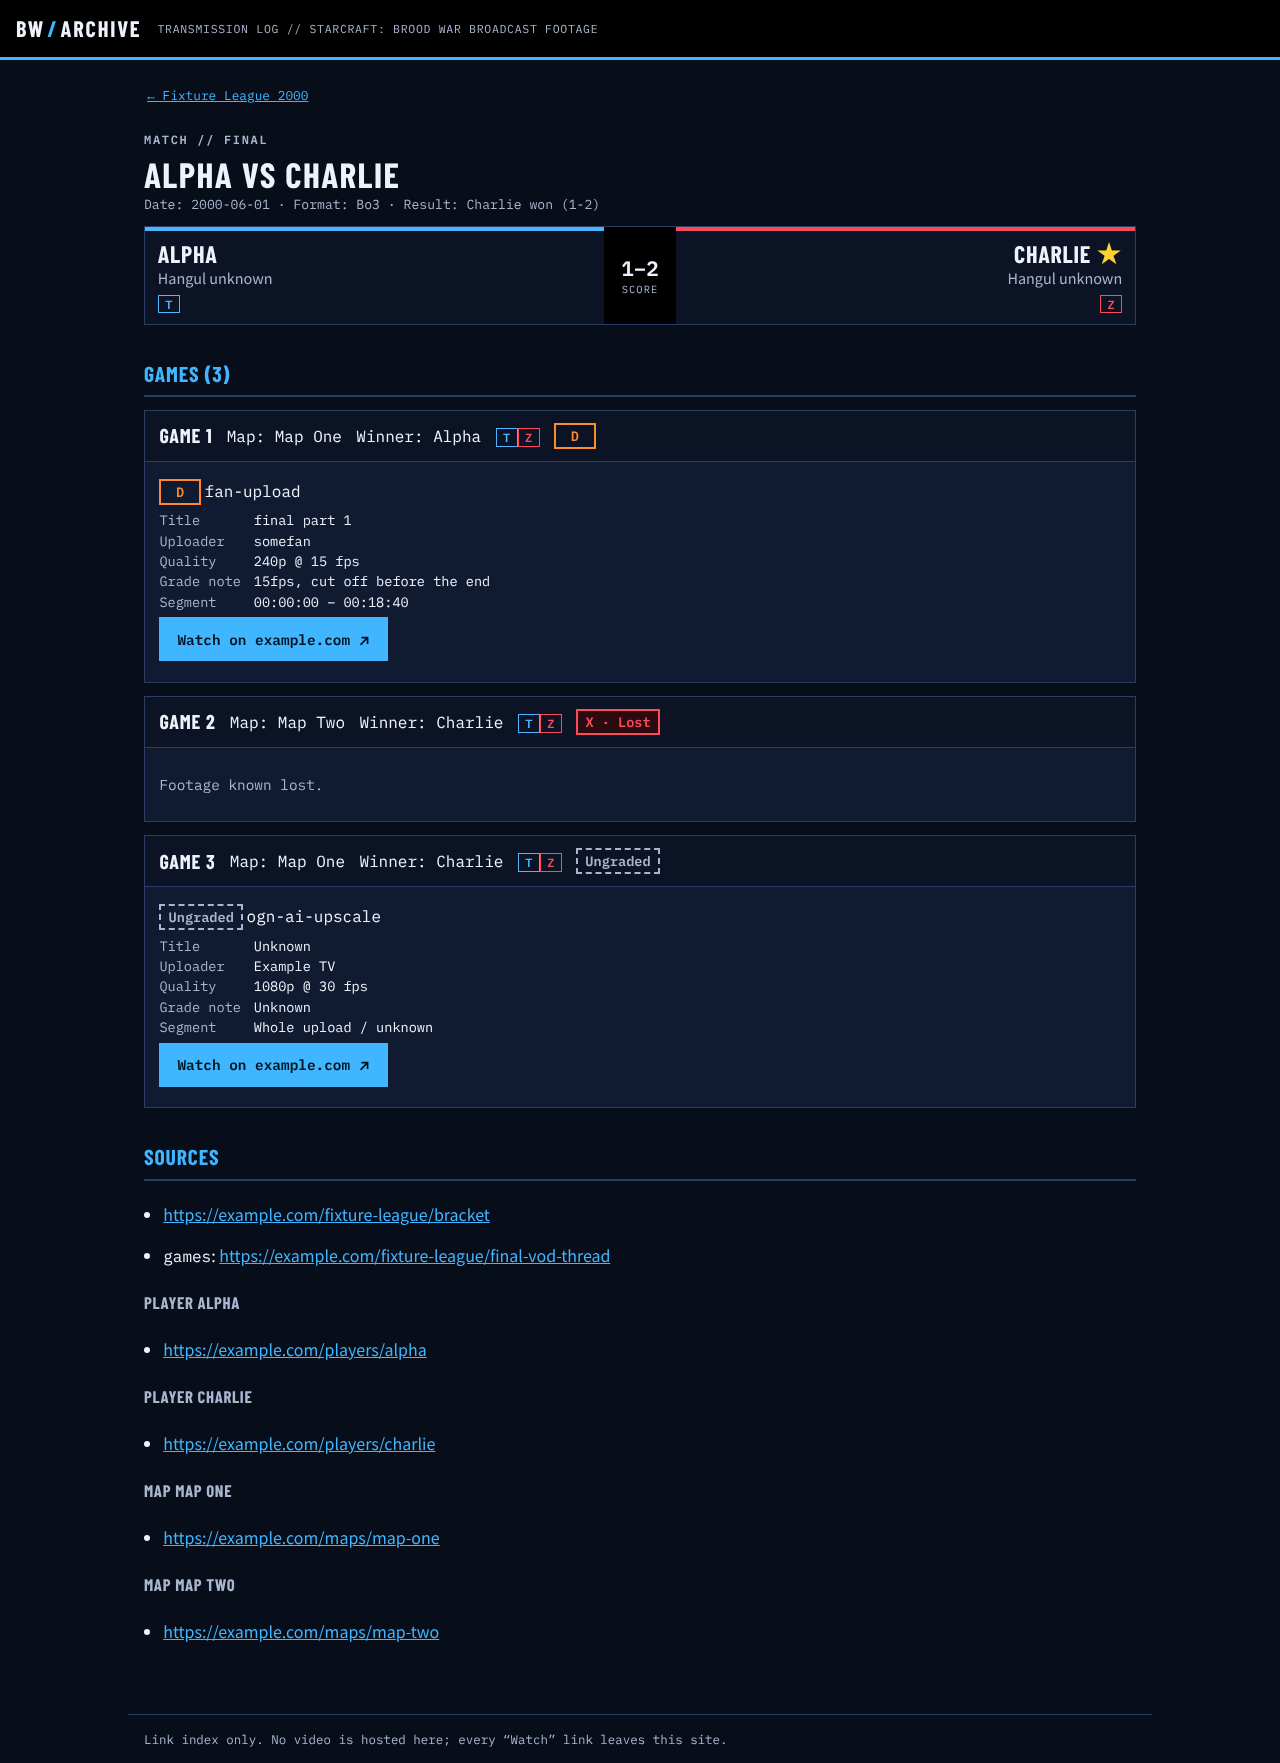
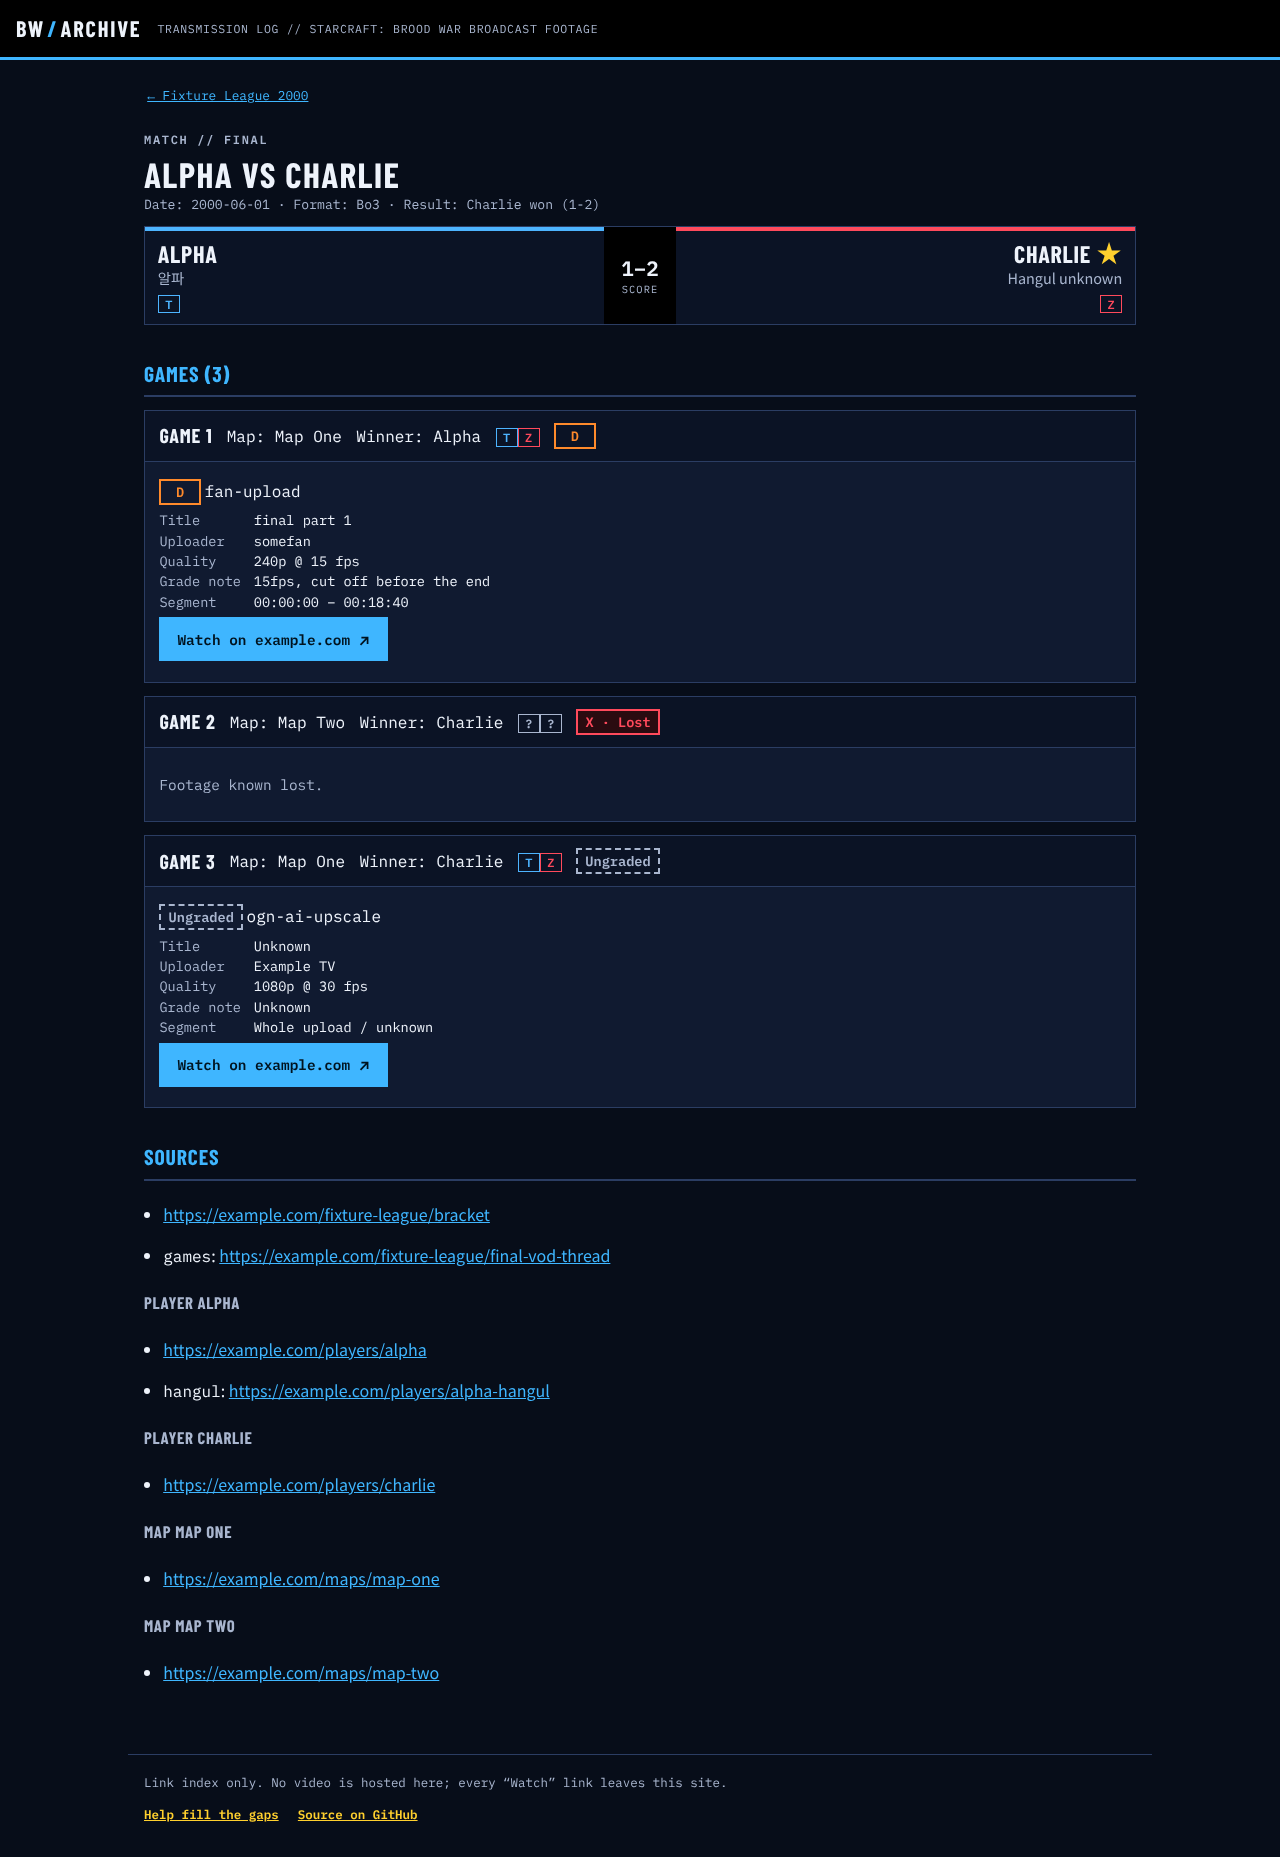
Site: repo links, collapse placeholder wall, isolate test outDirs, dedup nameOf, refresh screenshots

diff --git a/test/site.test.js b/test/site.test.js
@@ -1,4 +1,4 @@
-import { test } from 'node:test';
+import { test, after } from 'node:test';
 import assert from 'node:assert/strict';
 import { execSync } from 'node:child_process';
 import fs from 'node:fs';
@@ -9,13 +9,18 @@ import { bestGrade } from '../tools/catalog/grades.js';
 
 const FIXTURE = 'test/fixtures/catalog';
 const BASE = '/broodwar-archive/';
-const read = (p) => fs.readFileSync(`dist/${p}/index.html`, 'utf8');
+// Own outDir (never the repo's dist/); every temp dir is removed in after().
+const tmpDirs = [];
+const tmp = (prefix) => { const d = fs.mkdtempSync(path.join(os.tmpdir(), prefix)); tmpDirs.push(d); return d; };
+let outDir;
+after(() => { for (const d of tmpDirs) fs.rmSync(d, { recursive: true, force: true }); });
+const read = (p) => fs.readFileSync(`${outDir}/${p}/index.html`, 'utf8');
 const build = (catalogDir) => {
-  fs.rmSync('dist', { recursive: true, force: true });
-  execSync('npm run build', { env: { ...process.env, CATALOG_DIR: catalogDir }, stdio: 'pipe' });
+  outDir = tmp('bw-out-');
+  execSync(`npm run build -- --outDir ${outDir}`, { env: { ...process.env, CATALOG_DIR: catalogDir }, stdio: 'pipe' });
 };
 const copyFixture = () => {
-  const dir = fs.mkdtempSync(path.join(os.tmpdir(), 'bw-cat-'));
+  const dir = tmp('bw-cat-');
   fs.cpSync(FIXTURE, dir, { recursive: true });
   return dir;
 };
@@ -28,6 +33,17 @@ const playersById = new Map(cat.players.map((p) => [p.id, p]));
 
 test('fixture catalog renders everything it knows', async (t) => {
   build(FIXTURE);
+
+  await t.test('footer links to the repo on every page', () => {
+    const pages = ['', ...cat.events.map((e) => `events/${e.id}`), ...cat.matches.map((m) => `matches/${m.event}/${m.id}`)];
+    for (const p of pages) {
+      const html = read(p);
+      has(html, 'href="https://github.com/thomas-tahk/broodwar-archive/blob/main/CONTRIBUTING.md"');
+      has(html, 'Help fill the gaps');
+      has(html, 'href="https://github.com/thomas-tahk/broodwar-archive"');
+      has(html, 'Source on GitHub');
+    }
+  });
 
   await t.test('home links every event under base', () => {
     const html = read('');
@@ -124,6 +140,6 @@ test('score that is not N-N is shown raw; build fails on bad catalog', () => {
 });
 
 test('build succeeds with an explicit empty catalog dir', () => {
-  build(fs.mkdtempSync(path.join(os.tmpdir(), 'bw-empty-')));
+  build(tmp('bw-empty-'));
   has(read(''), 'No events');
 });

diff --git a/test/gap.test.js b/test/gap.test.js
@@ -9,8 +9,12 @@ const FIXTURE = 'test/fixtures/catalog';
 // Own outDir so this file never races other tests over dist/.
 const buildEvent = (catalogDir) => {
   const out = fs.mkdtempSync(path.join(os.tmpdir(), 'bw-gap-'));
-  execSync(`npm run build -- --outDir ${out}`, { env: { ...process.env, CATALOG_DIR: catalogDir }, stdio: 'pipe' });
-  return fs.readFileSync(`${out}/events/fixture-league/index.html`, 'utf8');
+  try {
+    execSync(`npm run build -- --outDir ${out}`, { env: { ...process.env, CATALOG_DIR: catalogDir }, stdio: 'pipe' });
+    return fs.readFileSync(`${out}/events/fixture-league/index.html`, 'utf8');
+  } finally {
+    fs.rmSync(out, { recursive: true, force: true });
+  }
 };
 const cells = (html) => (html.match(/<a class="gcell"[\s\S]*?<\/a>/g) ?? []);
 const find = (html, match, set) => {
@@ -42,6 +46,9 @@ test('fixture event gap grid', () => {
   assert.ok(html.includes('1 of 5 catalogued games have a good copy (A–C)'));
   assert.ok(html.includes('1 more game expected (per source) is not catalogued yet'));
   assert.equal((html.match(/data-placeholder="true"/g) ?? []).length, 1);
+  assert.ok(!html.includes('data-placeholder-count'));
+  assert.ok(html.includes('href="https://github.com/thomas-tahk/broodwar-archive/issues/new/choose"'));
+  assert.ok(html.includes('Know where a copy is? Add it'));
 });
 
 test('event with no matches shows only placeholders, no summary', () => {
@@ -50,8 +57,12 @@ test('event with no matches shows only placeholders, no summary', () => {
   fs.rmSync(`${dir}/matches/fixture-league`, { recursive: true });
   const ev = `${dir}/events/fixture-league.yaml`;
   fs.writeFileSync(ev, fs.readFileSync(ev, 'utf8').replace('expected_games: 6', 'expected_games: 66'));
-  const html = buildEvent(dir);
-  assert.equal((html.match(/data-placeholder="true"/g) ?? []).length, 66);
+  let html;
+  try { html = buildEvent(dir); } finally { fs.rmSync(dir, { recursive: true, force: true }); }
+  assert.equal((html.match(/data-placeholder="true"/g) ?? []).length, 0);
+  assert.equal((html.match(/data-placeholder-count="66"/g) ?? []).length, 1);
+  assert.ok(html.includes('66 games not catalogued yet'));
+  assert.ok(html.includes('Know where a copy is? Add it'));
   assert.ok(html.includes('66 more games expected (per source) are not catalogued yet'));
   assert.ok(!html.includes('gap-summary'));
 });

diff --git a/src/styles/site.css b/src/styles/site.css
@@ -80,6 +80,11 @@ h2{font-size:1.35rem;color:var(--accent);border-bottom:2px solid var(--line);pad
 .gcell[data-gap=true]{background:repeating-linear-gradient(135deg,#2a0b10 0 8px,var(--panel) 8px 16px)}
 .gaptag{font:700 .72rem "IBM Plex Mono",monospace;color:#fff;background:#c4162a;padding:.05rem .4rem;letter-spacing:.08em}
 .gcell.placeholder{background:transparent;border:2px dashed var(--mute);justify-content:center}
+.placeholder-wide{grid-column:1/-1}
+.foot p{margin:.2rem 0}
+.foot-links{display:flex;flex-wrap:wrap;gap:0 1.2rem}
+.foot-links a,.gap-help a{display:inline-block;padding:.8rem 0;min-height:44px;box-sizing:border-box;color:var(--P);font-weight:600}
+.gap-help{margin:.4rem 0;font:.9rem "IBM Plex Mono",monospace}
 .gap-summary{font:700 1rem "IBM Plex Mono",monospace;margin:.4rem 0}
 .gap-short{font:.9rem "IBM Plex Mono",monospace;color:var(--P);margin:.2rem 0}
 .gaplegend{display:flex;flex-wrap:wrap;gap:.5rem 1rem;font:.8rem "IBM Plex Mono",monospace;color:var(--mute)}

diff --git a/src/lib/catalog.js b/src/lib/catalog.js
@@ -22,6 +22,9 @@ export function playerOf(id) {
   return players.get(id) ?? { id, name: null, hangul: null, race: null };
 }
 
+/** Display name for a player id; 'Unknown' when no name is known. */
+export const nameOf = (id) => playerOf(id).name ?? 'Unknown';
+
 export function host(url) {
   try { return new URL(url).hostname.replace(/^www\./, ''); } catch { return url; }
 }
